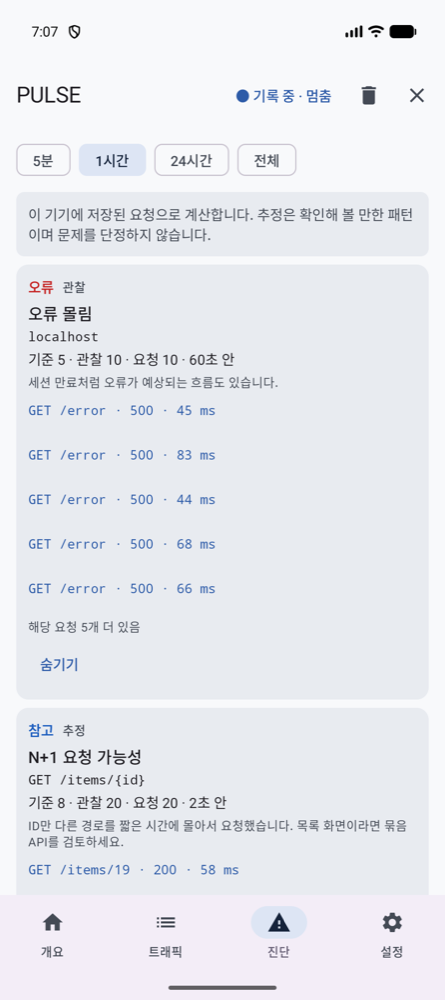
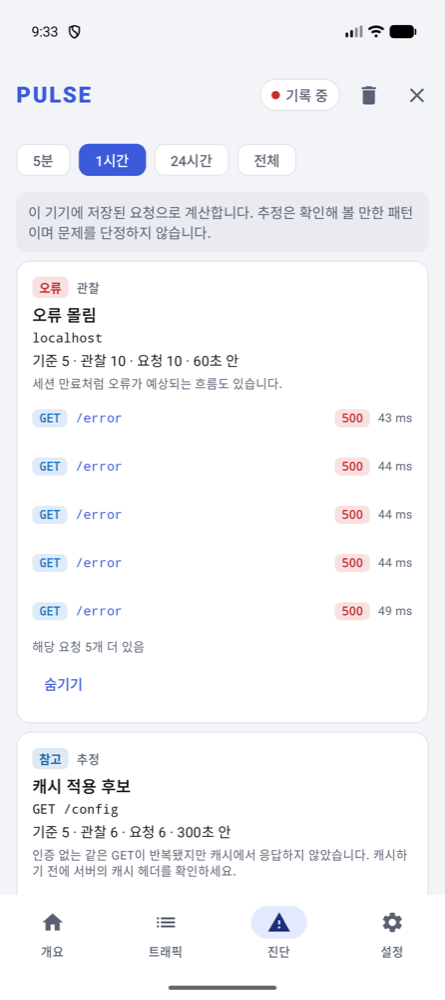
docs: 새 화면·알림·런처 아이콘·요청 공유 안내와 스크린샷 갱신
- 시작하기에 자동 진입점(런처 아이콘·알림)과 끄는 방법, 요청 공유를 적는다.
- 보안·개인정보 문서에 런처 별칭의 exported와 알림 노출 범위를 적는다.
- README 스크린샷을 새 화면으로 바꾸고 평가 가이드를 맞춘다.

diff --git a/docs/evaluation.md b/docs/evaluation.md
@@ -36,7 +36,8 @@ Android 앱의 **OkHttp 요청을 기기 안에서 기록하고 살펴보는 개
 
 | 해 볼 것 | 기대 결과 | 확인 포인트 |
 | --- | --- | --- |
-| GET JSON | 트래픽에 `200 GET /users/1` | 상세 → 응답의 `accessToken`이 `[REDACTED]`, URL의 `api_key` 값도 가려짐 |
+| 처음 열기 | 트래픽 위에 알림 켜기 안내 | "켜기" 후 알림에 요청 수·오류 수·최근 요청, 알림을 누르면 인스펙터. 홈 화면 앱 목록에 PULSE 아이콘 |
+| GET JSON | 트래픽에 `GET /users/1`과 `200` | 상세 → 응답의 `accessToken`이 `[REDACTED]`, URL의 `api_key` 값도 가려짐 |
 | POST 로그인 | `200 POST /login` | 요청 탭: `Authorization` 헤더와 본문 `password`가 가려짐 |
 | 404, 500 | 상태가 색과 글자로 구분 | 실패 필터에는 안 나오고 4xx·5xx 필터에 나옴 |
 | 읽기 시간 초과, 취소 | `실패`, `취소`로 따로 표시 | 앱이 받은 예외는 그대로(카드에 `SocketTimeoutException`) |
@@ -47,6 +48,8 @@ Android 앱의 **OkHttp 요청을 기기 안에서 기록하고 살펴보는 개
 | 동시 요청 20개 | 20개가 각자 자기 응답과 함께 기록 | 섞이지 않음 |
 | 오류 몰림, 같은 GET 반복 | 진단 탭에 "오류 몰림", "캐시 적용 후보" | 기준값·관찰값·근거 요청이 함께 나옴, 추정은 "추정"으로 표시 |
 | 개요 탭 | 요청 수·오류율·p95·응답 크기, 시간별 막대 | 오류 타일을 누르면 거른 목록으로 이동 |
+| 상세 → 공유 | 공유 시트에 Markdown 글 | 결과·URL·헤더·본문·cURL이 들어 있고 비밀 값은 `[REDACTED]` |
+| 상세 → 타임라인 | 단계별 색 막대와 "응답 대기" | 관찰하지 못한 연결 단계는 따로 알림 |
 | 요청 탭 → 재실행 | 허용 호스트 표시, 가려진 헤더는 빠진 채 시작 | POST는 확인란을 체크해야 보내짐, 결과는 "재실행" 표시와 원본 비교 |
 | 설정 → 모의 응답 규칙 추가·켜기 → GET JSON | 규칙의 상태 코드가 돌아옴 | 트래픽에 경고 띠와 "모의 응답" 표시 |
 | 트래픽 → 내보내기(공유 아이콘) | 파일 선택기로 `.har` 저장 | 파일에 비밀 값이 없는지, 관찰 못 한 타이밍이 -1인지 |
@@ -110,7 +113,7 @@ unzip -o -q pulse-sample-release.apk 'classes*.dex' -d rel && \
 | debug APK 크기 증가 | 약 +12MB (1,605,580 → 13,597,997 bytes) | Compose·Room 등 포함, 축소 안 함. Compose를 이미 쓰는 앱은 더 적음 |
 | 요청당 추가 시간 | 중앙값 약 7~34µs | Mac JVM 루프백 측정, **기기 측정 아님**([benchmarks.md](benchmarks.md)) |
 | 메인 스레드 디스크·네트워크 | 0건 | 에뮬레이터 StrictMode 점검 |
-| 자동 테스트 | 152개 통과 | 단위·Robolectric·UI, CI 동일 |
+| 자동 테스트 | 156개 통과 | 단위·Robolectric·UI, CI 동일 |
 | 공개 API 보호 | ABI 덤프, no-op·debug 시그니처 비교 | CI에서 깨지면 실패 |
 
 ## 준비하면서 확인한 것 (2026-10-13, Android 16 에뮬레이터)
@@ -145,4 +148,5 @@ unzip -o -q pulse-sample-release.apk 'classes*.dex' -d rel && \
 | 재실행·모의 응답이 쓸 만한가 | | |
 | release에서 완전히 빠지는가 | | |
 | 문서만 보고 쓸 수 있는가 | | |
+| 알림·런처 아이콘·공유가 팀 작업 흐름에 맞는가 | | |
 | 꼭 필요한데 없는 기능 | | |

diff --git a/README.md b/README.md
@@ -7,16 +7,16 @@
 
 <table>
   <tr>
-    <td align="center" width="25%"><img src="docs/images/screen-traffic.png" width="200" alt="트래픽 목록"><br><b>트래픽</b><br>검색·상태 필터</td>
-    <td align="center" width="25%"><img src="docs/images/screen-failed.png" width="200" alt="실패 필터"><br><b>실패</b><br>취소·I/O 실패 구분</td>
-    <td align="center" width="25%"><img src="docs/images/screen-request.png" width="200" alt="요청 상세"><br><b>요청</b><br>저장 전 마스킹</td>
-    <td align="center" width="25%"><img src="docs/images/screen-timeline.png" width="200" alt="타임라인"><br><b>타임라인</b><br>관찰한 단계만</td>
+    <td align="center" width="25%"><img src="docs/images/screen-traffic.png" width="200" alt="트래픽 목록"><br><b>트래픽</b><br>메서드·결과·소요 시간</td>
+    <td align="center" width="25%"><img src="docs/images/screen-notification.png" width="200" alt="알림"><br><b>알림</b><br>앱 어디서든 열기</td>
+    <td align="center" width="25%"><img src="docs/images/screen-request.png" width="200" alt="요청 상세"><br><b>요청</b><br>요약·저장 전 마스킹</td>
+    <td align="center" width="25%"><img src="docs/images/screen-timeline.png" width="200" alt="타임라인"><br><b>타임라인</b><br>단계·응답 대기</td>
   </tr>
   <tr>
     <td align="center"><img src="docs/images/screen-overview.png" width="200" alt="개요"><br><b>개요</b><br>오류율·p95·시간별 요청</td>
     <td align="center"><img src="docs/images/screen-insights.png" width="200" alt="진단"><br><b>진단</b><br>기준값·관찰값·근거 요청</td>
     <td align="center"><img src="docs/images/screen-replay.png" width="200" alt="재실행"><br><b>재실행</b><br>허용 호스트·위험 확인</td>
-    <td align="center"><img src="docs/images/screen-settings.png" width="200" alt="설정"><br><b>설정</b><br>모의 응답·수집 상태</td>
+    <td align="center"><img src="docs/images/screen-settings.png" width="200" alt="설정"><br><b>설정</b><br>기록·수집 설정</td>
   </tr>
 </table>
 
@@ -24,6 +24,8 @@
 
 ## 기능
 
+- **바로 열기**: 앱에 버튼을 달지 않아도 debug 빌드에 PULSE 런처 아이콘과 알림(요청 수·오류·최근 요청, 멈춤·지우기)이 생김. 둘 다 리소스 값으로 끌 수 있음
+- **요청 공유**: 요청 하나를 결과·헤더·본문·cURL이 담긴 Markdown 글로 공유해 이슈나 메신저에 바로 붙임
 - **기록**: 메서드, 마스킹한 URL·헤더, 상태 코드, 실패 종류(I/O 실패·취소·시간 초과와 4xx·5xx 응답을 구분), 크기, 소요 시간
 - **본문**(선택): JSON만, 상한 안에서, 호스트가 실제로 읽거나 쓴 바이트만 복사해 마스킹한 뒤 저장. 트리·원문 보기
 - **단계 타이밍**: OkHttp `EventListener`가 관찰한 DNS·연결·TLS·요청·응답 단계, 캐시 응답·연결 재사용 근거. 관찰하지 못한 값은 추정하지 않음

diff --git a/docs/security-audit.md b/docs/security-audit.md
@@ -15,7 +15,8 @@
 | 기기 전체 파일·내보내기에 남는 비밀 | 위 대응 전체 + 내보낼 때 다시 마스킹 | **`SecretLeakAuditTest`**: 가짜 비밀 14개를 헤더·쿼리·중첩 JSON·문자열 속 JSON과 URL·form·잘못된 JSON·Set-Cookie·Location에 심고, DB·WAL·본문 파일·HAR·PULSE JSON·cURL을 바이트 단위로 검사 |
 | cURL로 자격 증명 재구성 | 가려진 헤더는 넣지 않음 | `CurlFormatterTest` |
 | release 빌드 유입 | no-op 교체, release 런타임 classpath 검사, 공개 API 일치 검사 | `verifyReleaseClasspath`, `verifyNoopApi` |
-| 다른 앱이 화면을 엶 | `exported=false` | merged manifest 확인(수동, README 참고) |
+| 다른 앱이 화면을 엶 | 인스펙터 Activity는 `exported=false`. debug 빌드의 런처 아이콘(activity-alias)만 `exported=true`이며 화면을 띄울 뿐 데이터를 돌려주지 않음. 알림 버튼 수신기는 `exported=false` | merged manifest 확인(수동). release에는 둘 다 없음 |
+| 알림으로 드러나는 요청 경로 | 기본은 알림 권한이 없어 띄우지 않음. 띄울 때도 잠금 화면에서는 개수만 보임(`VISIBILITY_PRIVATE`) | 수동 확인 |
 | 재실행으로 운영 서버 변경·자격 증명 유출 | 기본 꺼짐, 허용 호스트, 확인, 가려진 헤더 제거, 리다이렉트 단계별 검사 | `ReplayEngineTest`, `PulseTest` |
 | 모의 응답이 운영에서 동작 | 명시적으로 붙여야 동작, 기본 꺼짐, 메모리에만 저장 | `MockInterceptorTest` |
 | 정규식 ReDoS | 길이 제한·시간 예산 | `MockInterceptorTest` |

diff --git a/docs/privacy-and-export.md b/docs/privacy-and-export.md
@@ -14,7 +14,9 @@
 
 ## 화면
 
-인스펙터 Activity는 `exported=false`입니다. 본문 복사는 버튼을 누를 때만 하며 Android 13 이상에서는 클립보드 미리보기에 내용을 숨깁니다.
+인스펙터 Activity는 `exported=false`입니다. debug 빌드의 런처 아이콘만 다른 앱(런처)이 열 수 있으며, 화면을 띄울 뿐 데이터를 돌려주지 않습니다. 본문 복사는 버튼을 누를 때만 하며 Android 13 이상에서는 클립보드 미리보기에 내용을 숨깁니다.
+
+알림은 최근 요청의 메서드·경로·결과를 보여 줍니다. 잠금 화면에서는 개수만 보이고, 끄려면 `pulse_notification_enabled`를 false로 둡니다. 요청 공유는 사용자가 고른 앱에만 보내며, 마스킹했더라도 개인정보가 남을 수 있으니 공유 전에 확인하세요.
 
 ## 내보내기
 

diff --git a/CHANGELOG.md b/CHANGELOG.md
@@ -4,6 +4,12 @@
 
 ## [Unreleased]
 
+### 추가
+- 인스펙터 화면을 다시 디자인: 메서드 색 태그·상태 띠가 있는 목록, 결과와 핵심 수치를 모은 상세 머리말, 색을 입힌 JSON, 단계별 색과 "응답 대기" 구간이 있는 타임라인, 카드형 개요·진단·설정.
+- 앱에 버튼 없이 쓰는 진입점: debug 빌드의 런처 아이콘과 요청 수·오류·최근 요청을 보여 주는 알림(멈춤·재개·지우기). 리소스 값으로 끌 수 있음.
+- 요청 하나를 Markdown 글로 공유(결과·헤더·본문·cURL).
+- `PulseInspectorRegistry.updates`: 초기화·종료를 알리는 흐름.
+
 ## [0.1.0-alpha01] — 배포 준비 중
 
 첫 공개 알파. 공개 API는 0.x 동안 바뀔 수 있습니다.
